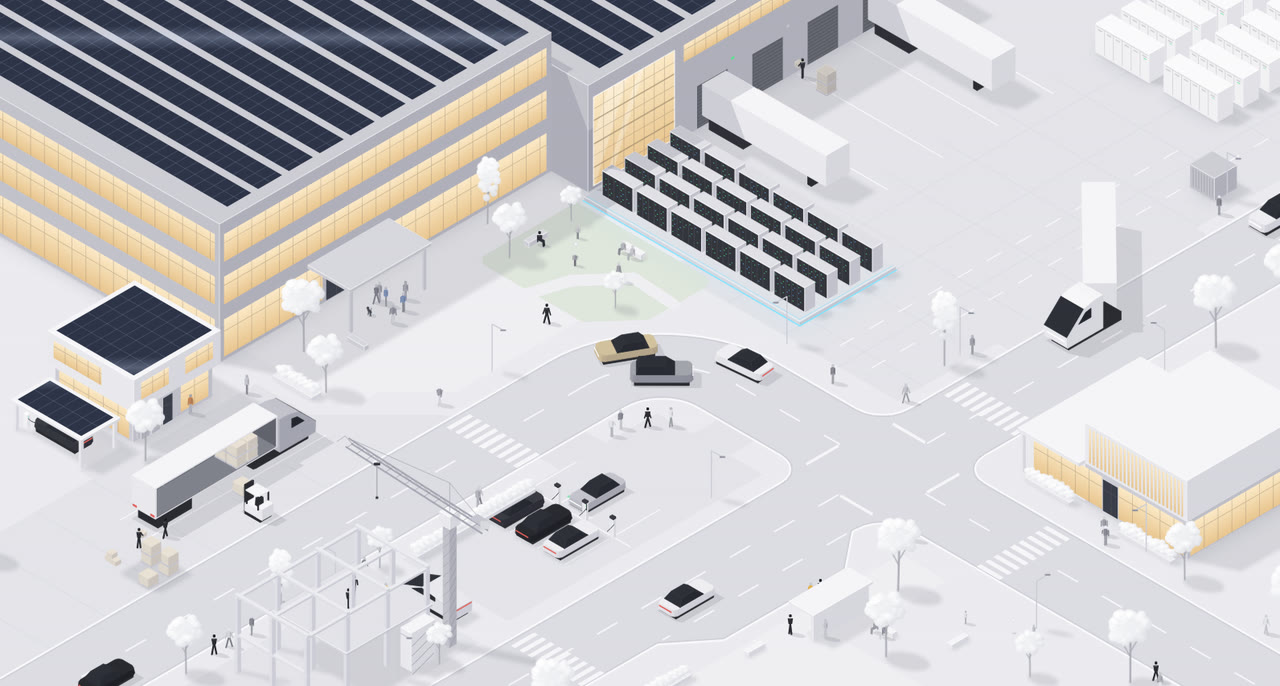
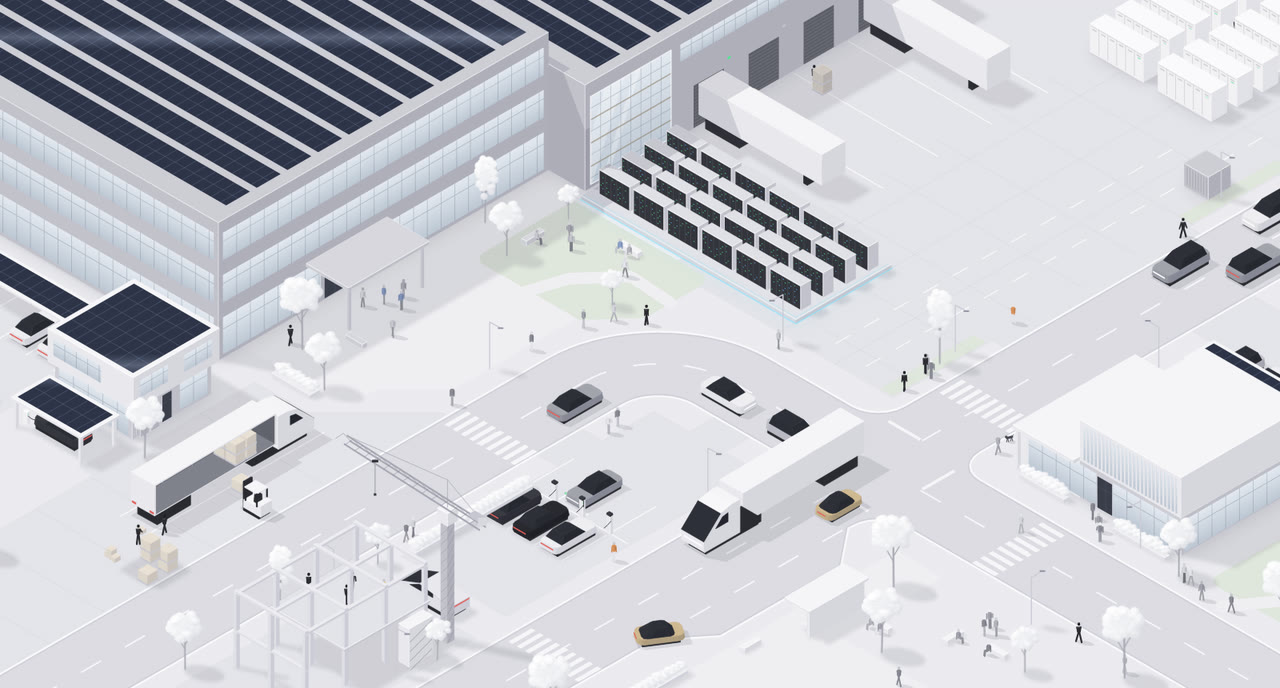
Re-record the previews and update the README for 0.2.0
- docs/demo-light.gif, docs/demo-dark.gif and docs/preview-light.jpg are re-recorded from this version with
  `npm run record:gifs`: blue-grey glass by day, headlight beams at night, staff in the parks, the outskirts
  peeking in at the edges.
- README: the feature list gains the staff parks, the outskirts and the day / night lighting, and drops the kids'
  ball game. Sizing explains how cover and contain treat wide boxes, with a 520 px banner example. The props table
  has isPaused and isReducedMotionIgnored, with a note on the 0.1.0 names they replace. Develop lists the new
  scripts (dev:lab, check:components, check:sim, record:gifs) and points to AGENTS.md and docs/. How it works
  mentions stalls.ts, outskirts.ts and lights.ts.

Claude-Session: https://claude.ai/code/session_012ySDijcC9S9qEJByotkpyp

diff --git a/README.md b/README.md
@@ -59,15 +59,21 @@ any other React setup.
 - **AI compute**: a wide platform of 24 server-rack blocks along the dock wing, reaching out into the truck yard as
   far as the semis' turning room allows, with blinking status lights and a pulsing cyan glow along its base. Above
   it, a tall glass atrium in the dock wing glows warm at night.
-- **Pocket park**: a patch of grass on the corner by the plaza, where two kids pass a ball, people sit on the
-  benches and walkers take the path across to the street.
+- **Parks for the staff**: a pocket park on the corner by the plaza and a bigger one east of the pavilion, with grass,
+  paths, trees and benches where employees sit or stand together on their break.
 - **Charging**: cars nose into the chargers, charge (with a pulsing light and cable), back out and leave.
 - **Robotaxi stop**: pods and the van pull into the bay, open their doors, let people off, pick people up and go.
 - **Construction**: a tower crane swings between the material pile and the slab while workers move around.
 - **The home beside the loading bay**: solar roof, wall batteries with breathing status lights, and a carport where
   the car is on its charger.
-- **Ambient detail**: walkers on a walkway network, people chatting, sitting on a bench or playing ball in the
-  parks, a dog on a walk, trees swaying, glints sweeping across solar roofs and pulsing battery status lights.
+- **The outskirts**, for wide views: a new factory wing and a long staff car park under solar canopies to the west
+  (a few cars come and go on its service road), and to the east a second compute platform, a Megapack field with a
+  robot doing its rounds, and a charging hub that cars turn into off the avenue.
+- **Day and night**: by day the glazing is a faded blue-grey glass; at night it glows warm and lights the ground in
+  front of the buildings, headlights throw beams along the road ahead of each car, and tail lights glow red, brighter
+  when a car brakes or waits.
+- **Ambient detail**: walkers on a walkway network, people chatting, a dog on a walk, trees swaying, glints sweeping
+  across solar roofs and pulsing battery status lights.
 
 There is a light theme and a night theme, and by default the scene matches the page it sits on (see
 [Dark mode](#dark-mode)). Everything is drawn on one `<canvas>`, and the only dependency is React.
@@ -75,13 +81,22 @@ There is a light theme and a night theme, and by default the scene matches the p
 ## Sizing
 
 By default the component is as wide as its container and keeps the scene's own aspect ratio (about 1.86 : 1). Give
-it a height, or put it in a sized box, and it fills that instead, cropping the edges (`fit="cover"`) or letterboxing
-(`fit="contain"`):
+it a height, or put it in a sized box, and it fills that instead:
 
 ```tsx
 <div style={{ height: '70vh' }}>
   <LivingCity style={{ height: '100%' }} density={0.8} />
 </div>
+```
+
+- `fit="cover"` (the default) fills the box. In a box taller than the scene it crops the sides; in a wider one it
+  shows more of the outskirts instead of cropping the middle away, down to 70 % of the scene's height.
+- `fit="contain"` always shows the whole height. Beyond the classic frame the town keeps going (a factory wing, a
+  staff car park, a second compute platform, Megapacks, a charging hub, a staff park), so a wide banner is filled
+  edge to edge rather than letterboxed:
+
+```tsx
+<LivingCity fit="contain" style={{ height: 520 }} /> {/* a 1630 × 520 hero, say */}
 ```
 
 ## Props
@@ -92,14 +107,17 @@ it a height, or put it in a sized box, and it fills that instead, cropping the e
 | `speed` | `1` | Simulation speed. `0.5` is calm, `2` is busy |
 | `density` | `1` | How many people and cars, from `0.3` to `1.5` |
 | `seed` | `7` | Changes who walks where and which cars appear |
-| `fit` | `'cover'` | `'cover'` fills the box and crops the edges. `'contain'` shows the whole scene |
+| `fit` | `'cover'` | `'cover'` fills the box (see *Sizing*). `'contain'` shows the whole height, outskirts filling the sides |
 | `focus` | `[0.5, 0.5]` | When `cover` crops, which part stays in view (`[0, 0]` is top left) |
 | `zoom` | `1` | Extra zoom on top of the fit |
-| `paused` | `false` | Freeze on the current frame |
+| `isPaused` | `false` | Freeze on the current frame |
 | `maxDpr` | `2` | Cap on the device pixel ratio. Lower it to trade sharpness for speed |
-| `respectReducedMotion` | `true` | Hold still when the visitor has asked for reduced motion |
+| `isReducedMotionIgnored` | `false` | Keep moving even when the visitor has asked for reduced motion (by default the scene then holds still) |
 | `label` | none | Accessible description. Without it the scene is treated as decorative (`aria-hidden`) |
 | `className`, `style` | none | Applied to the wrapper `div` |
+
+In 0.2.0 `paused` became `isPaused` and `respectReducedMotion` became `isReducedMotionIgnored` (inverted: leave it
+out to keep respecting the setting).
 
 ## Dark mode
 
@@ -143,7 +161,7 @@ scene.resize(canvas.clientWidth, canvas.clientHeight); // CSS pixels; call again
 - **From GitHub** (the quick start): `npm install github:albsramos/live-factory`. npm clones the repository and builds
   `dist/` on install (the `prepare` script). pnpm and Yarn take the same `github:` spec; pnpm may ask you to approve
   that build step. Add `#<tag or commit>` to pin a version.
-- **As a tarball:** `npm run build && npm pack`, then `npm install live-factory-0.1.0.tgz` in your app.
+- **As a tarball:** `npm run build && npm pack`, then `npm install live-factory-0.2.0.tgz` in your app.
 - **Inside your own component library:** copy `src/` into it. It is plain TypeScript and React with no other imports.
 - **Publish it:** run `npm publish` (or rename it first, for example `@your-scope/live-factory`). The build produces
   ESM, CommonJS and type declarations in `dist/`.
@@ -152,18 +170,19 @@ scene.resize(canvas.clientWidth, canvas.clientHeight); // CSS pixels; call again
 
 ```sh
 npm install
-npm run dev              # dev page with theme, speed and density controls
-npm run build            # library build into dist/
+npm run dev                # the demo website (site/), with theme, shape, speed and crowd controls
+npm run dev:lab            # the dev lab: ?gallery shows every vehicle, ?debug exposes window.scene
+npm run build              # library build into dist/
 npm run typecheck
-npm run build:site       # site-dist/: the demo website, with React bundled in
-npm run build:artifact   # artifact-dist/live-factory.html: the same page as one file, React from cdnjs
+npm run check:components   # the demo site's components against the react-component rules
+npm run check:sim          # 20 simulated minutes: nobody run over, no collisions, traffic flowing
+npm run record:gifs        # re-record the README previews (needs Playwright and ffmpeg)
+npm run build:site         # site-dist/: the demo website
+npm run build:artifact     # artifact-dist/live-factory.html: the same page as one file
 ```
 
-The dev page has two extra views: `?gallery` shows every vehicle at eight headings, and `?debug` exposes the scene as
-`window.scene` for poking at the simulation.
-
-Every push to `main` rebuilds the demo website and publishes it to GitHub Pages (`.github/workflows/pages.yml`). Its
-page lives in `artifact/page.html`.
+Every push to `main` rebuilds the demo website and publishes it to GitHub Pages (`.github/workflows/pages.yml`).
+`AGENTS.md` and `docs/` explain the codebase for people and coding agents alike.
 
 ### How it works
 
@@ -178,9 +197,11 @@ page lives in `artifact/page.html`.
   actuated signal at the junction. Only the front vehicle of a queue reserves, and a semi reserves everything within
   a truck length at once, so it never waits with its trailer across a lane.
 - `engine/walkers.ts`: people and robots, with a walk cycle and a walkway graph to wander.
-- `engine/activities.ts`: the scripted scenes (truck yard, loading bay, charging lot, robotaxi stop, crane,
-  workbench, park).
-- `engine/world.ts`: the layout: ground plan, buildings, props, routes and walkways.
+- `engine/activities.ts`: the scripted scenes (truck yard, loading bay, charging lot, robotaxi stop, crane, dog
+  walk); `engine/stalls.ts`: car parks whose cars come and go.
+- `engine/world.ts`: the layout: ground plan, buildings, props, routes and walkways; `engine/outskirts.ts`: what lies
+  beyond the classic frame, for wide views.
+- `engine/lights.ts`: headlight beams, tail lights and lamp glints at night.
 - `engine/scene.ts`: camera fit, the cached ground layer with baked soft shadows, bitmap caching and the frame loop.
 
 The scene uses no logos, wordmarks or text.
